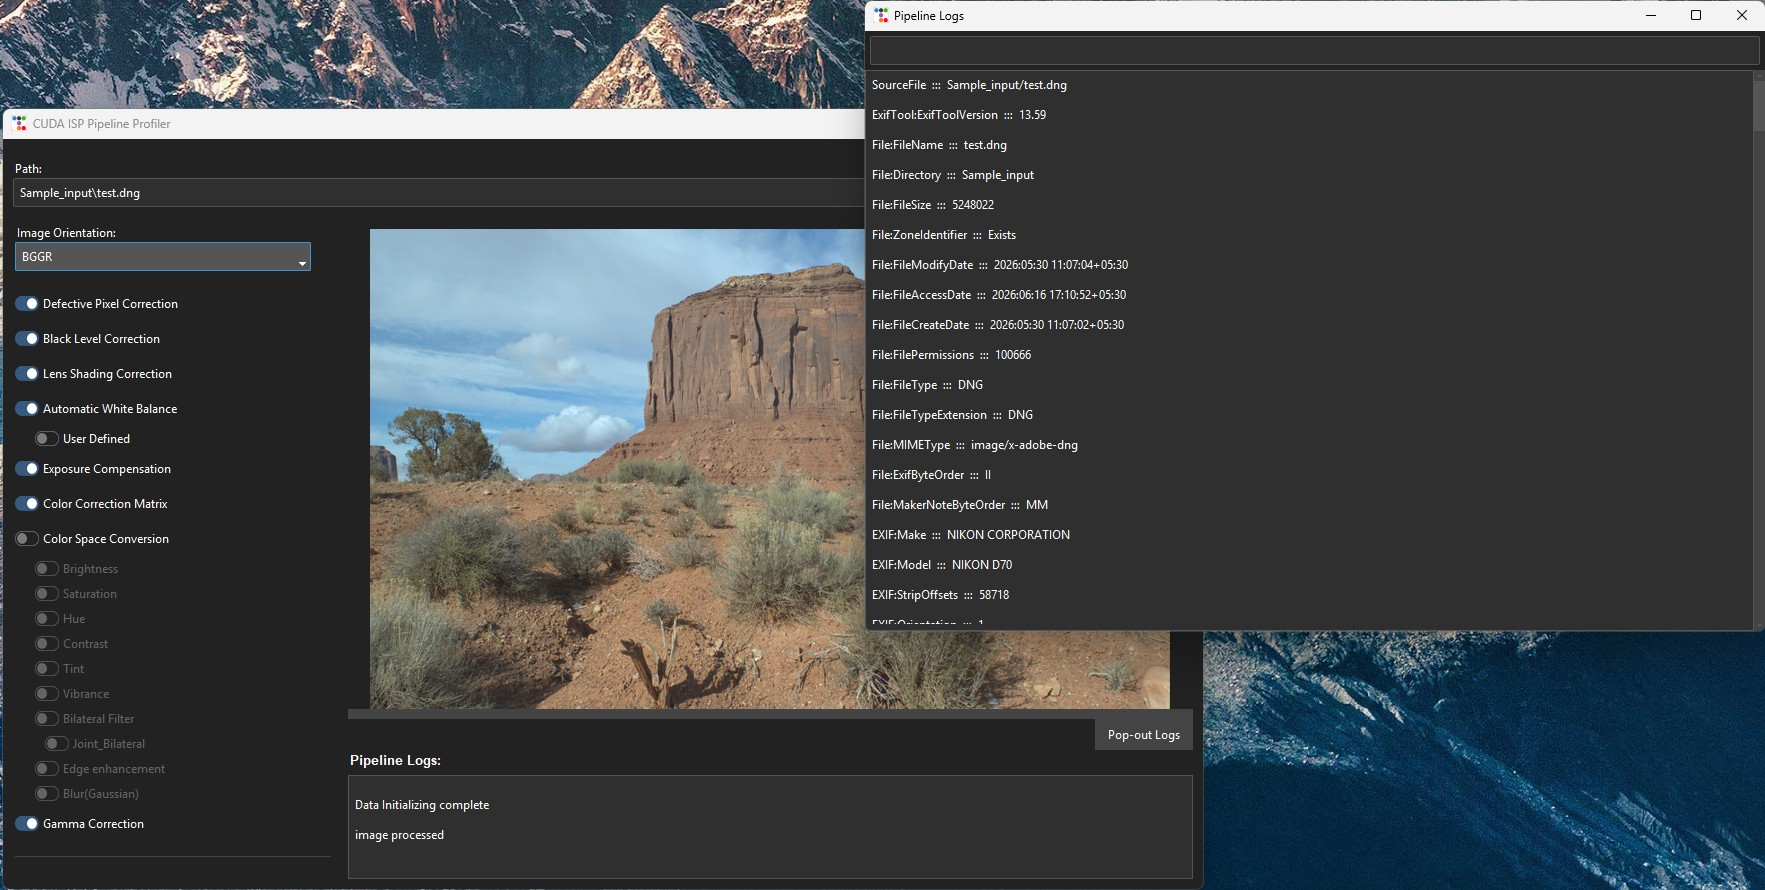
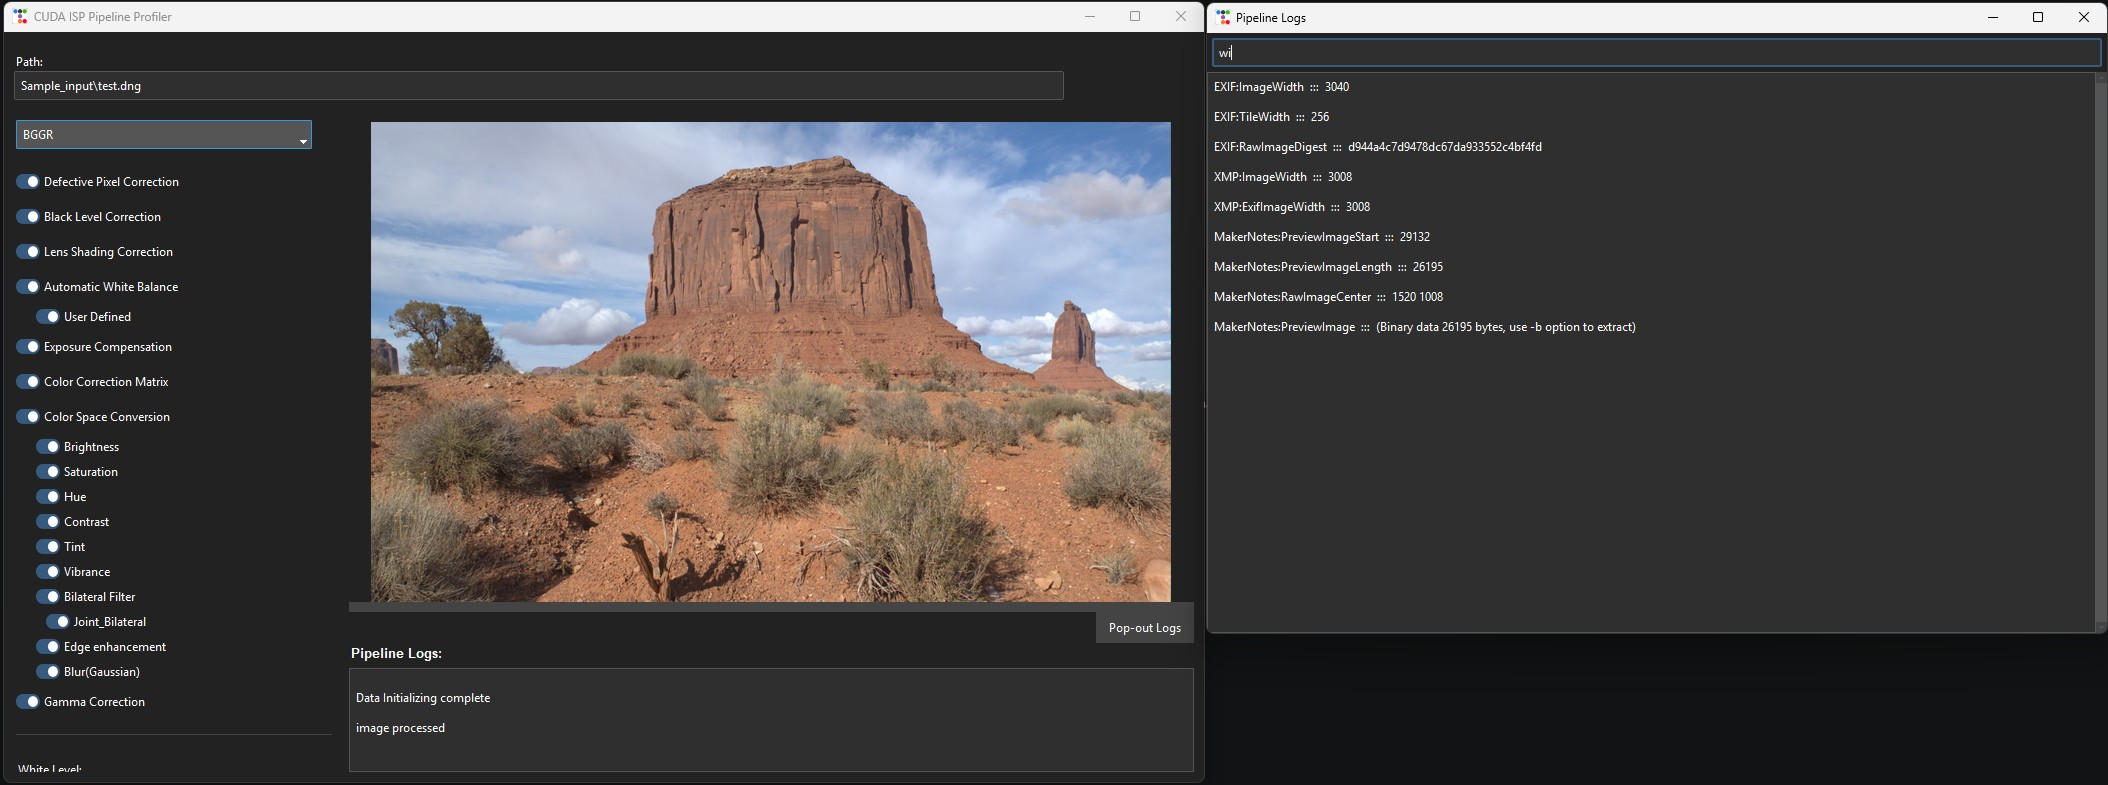
major commit - fused kernels - removed floating point divisions - precomputed pipeline parameters

diff --git a/readme.md b/readme.md
@@ -138,9 +138,18 @@ input the path to the raw image and press enter to load. The toogle button can b
 - src           :: contains individual kernels for each operation
 
 
-#Updates
+# Updates
+
+I have chosen an image from AdobeRaw dataset for bechmarking the execution speed of the pipeline. the image is present in the sample_input folder.
+
+Image characteristics:
+W*H = 3040 * 2014
+format .dng
+device NVIDIA RTX4050 Laptop gpu
+
 -19/06/2026 : current avg runtime(10000 runs) : 9.41 ms
 -20/06/2026 : Fused Lens shading correction and Black Level Correction Kernels, grouped variable to device memory transfers.  current avg runtime (10000 runs)  : 9.21 ms 
+-20/06/2026 : major optimisation Fused gamma and normalization kernel, precomputed few constants, removed floating divisions. current avg runtime (10000 runs)  : 7.3461 ms
 
 # Future work
 